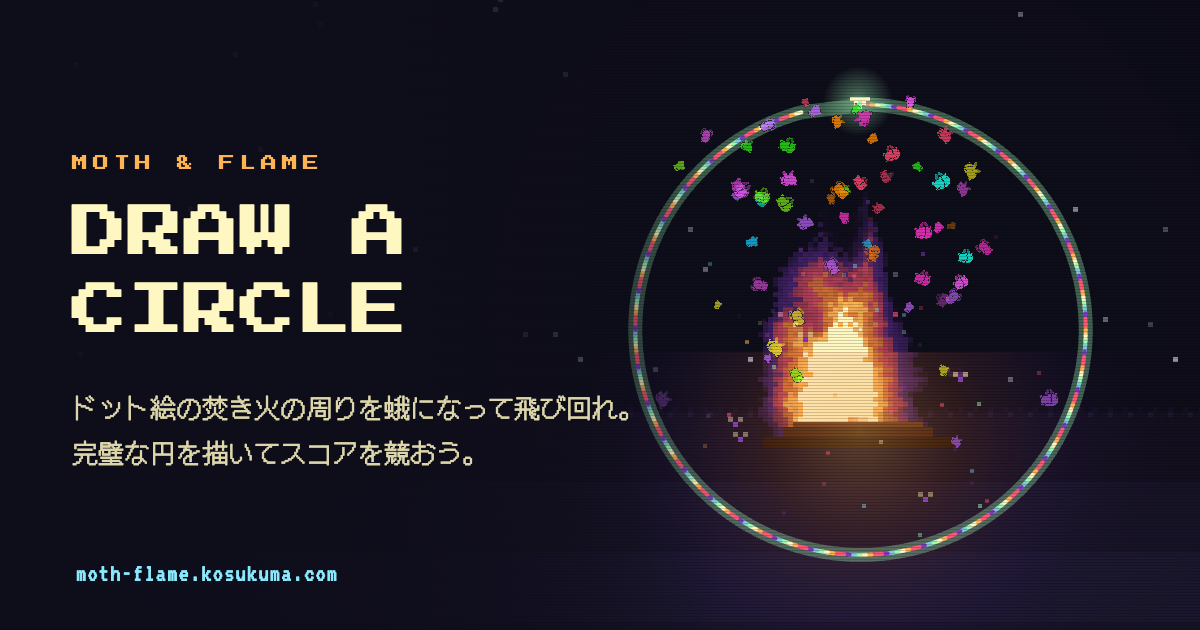
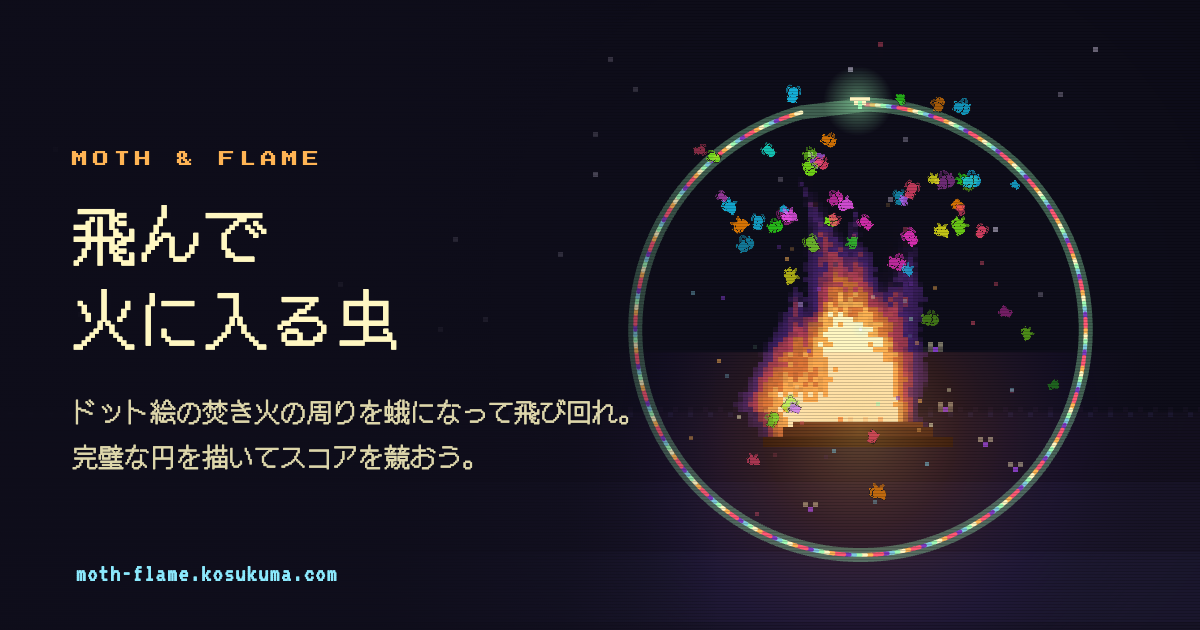
サムネイルの見出しを「飛んで火に入る虫」に変更
DRAW A CIRCLE の代わりに、蛾が火に飛び込むことわざを見出しにした。
和文なので書体は Press Start 2P から DotGothic16(ドット和文)へ。
絵も焼き直し(node tools/shoot-og.mjs)。

Claude-Session: https://claude.ai/code/session_01RgPha8tkR1B7sJKU7L9suT

diff --git a/tools/og.html b/tools/og.html
@@ -61,12 +61,13 @@
     margin-bottom: 24px;
   }
   .ttl {
-    font-family: "Press Start 2P", monospace;
-    font-size: 56px;
+    font-family: "DotGothic16", monospace;
+    font-size: 64px;
     color: #fff7c2;
-    line-height: 1.38;
+    letter-spacing: 2px;
+    line-height: 1.3;
     text-shadow: 4px 4px 0 #0e0d1a;
-    margin-bottom: 34px;
+    margin-bottom: 30px;
   }
   .lead {
     font-family: "DotGothic16", monospace;
@@ -91,7 +92,7 @@
   <div class="veil"></div>
   <div class="txt">
     <div class="kick">MOTH &amp; FLAME</div>
-    <div class="ttl">DRAW A<br>CIRCLE</div>
+    <div class="ttl">飛んで<br>火に入る虫</div>
     <div class="lead">ドット絵の焚き火の周りを蛾になって飛び回れ。<br>完璧な円を描いてスコアを競おう。</div>
   </div>
   <div class="url">moth-flame.kosukuma.com</div>

diff --git a/src/app/layout.tsx b/src/app/layout.tsx
@@ -19,7 +19,7 @@ export const metadata: Metadata = {
     locale: "ja_JP",
     type: "website",
     images: [
-      { url: "/og.png", width: 1200, height: 630, alt: "MOTH & FLAME — DRAW A CIRCLE" },
+      { url: "/og.png", width: 1200, height: 630, alt: "MOTH & FLAME — 飛んで火に入る虫" },
     ],
   },
   twitter: {
